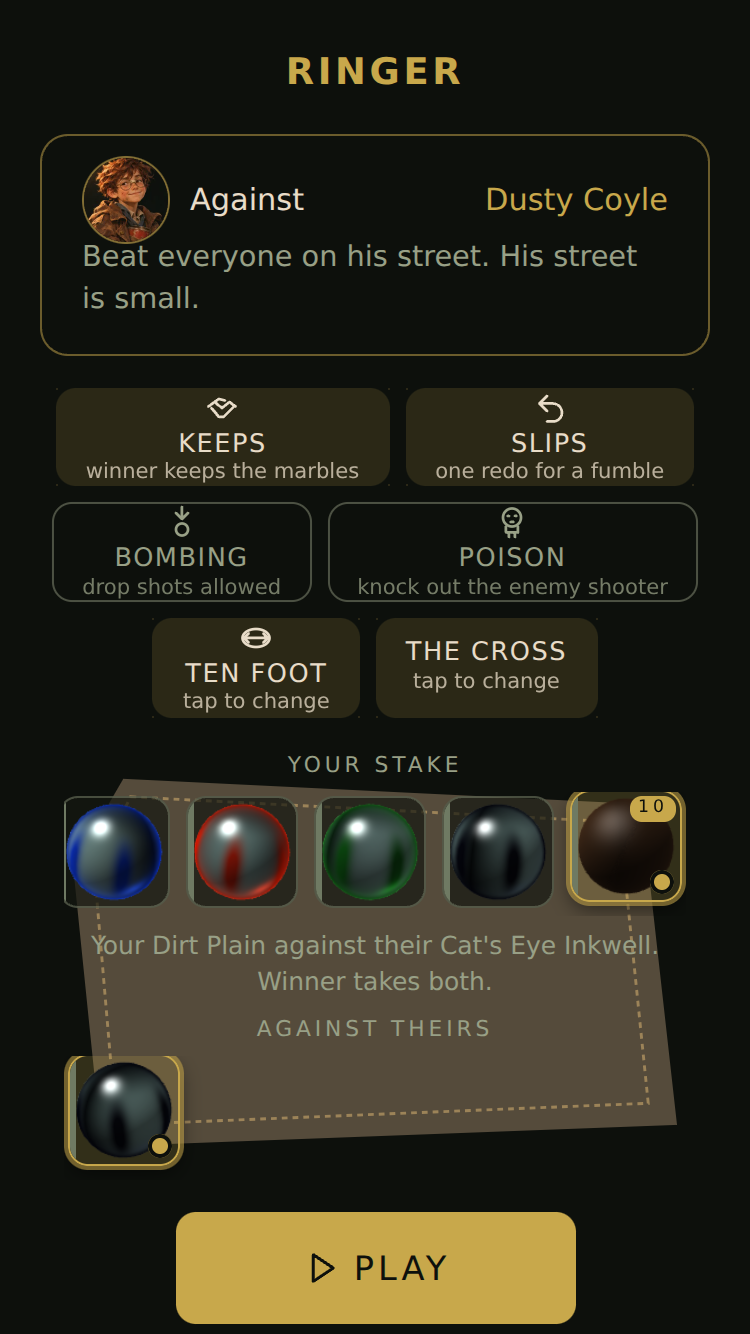
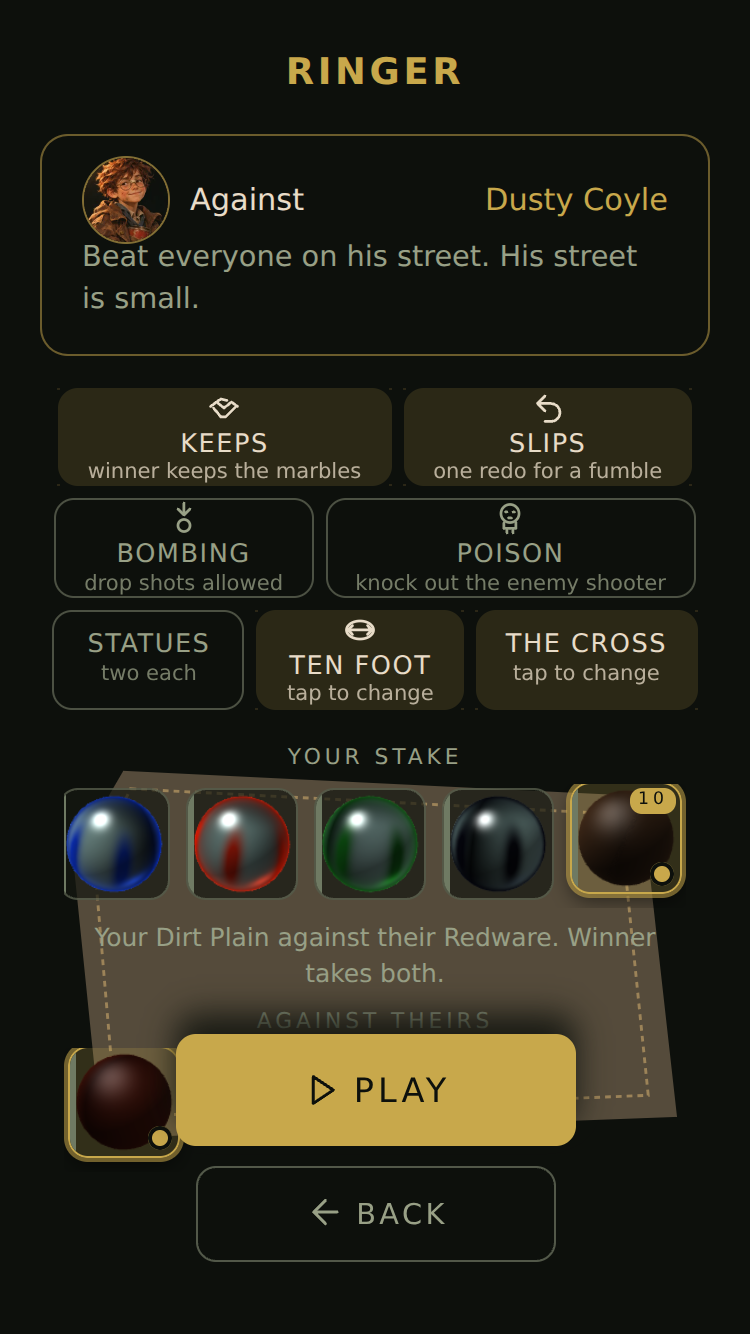
Keepsies m2 step 11: the full check's one red fixed (seven house rules outgrew a 667 px setup at seven foot and pushed Play off the screen; the chips are tighter and Play and Back now stick to the foot of the setup's scroll); playthrough green alone, the fast check green [skip ci]
Claude-Session: https://claude.ai/code/session_01Dzsq6YAnDeV2iLzTfA6x3K

diff --git a/satellites/keepsies/index.html b/satellites/keepsies/index.html
@@ -70,6 +70,13 @@ button.quiet{background:transparent;color:var(--muted);border:1px solid rgba(152
 /* a thumb lands on the BUTTON, never on its words or its drawing (the render gate asks elementFromPoint) */
 button .lbl,button .ic,button .hrIc{pointer-events:none}
 .chip .hrIc .ic{width:18px;height:18px;margin:0 0 2px}
+/* seven house rule chips in three rows at every ring size (THIRTEEN FOOT is the widest word): Play stays on a
+   375 by 667 screen, which the render gate and the playthrough both press */
+.chip{padding:0 8px;min-width:80px;letter-spacing:.03em}
+/* ⛔ PLAY AND BACK ARE ALWAYS ON THE SCREEN. Seven house rules and two stake strips outgrow a 667 px phone at
+   some ring sizes, so the setup scrolls and its two buttons stick to the foot of the scroll, Play over Back */
+#setupGo{position:sticky;bottom:calc(70px + var(--sb));z-index:3;box-shadow:0 -10px 16px rgba(13,16,12,.85)}
+#setupBack{position:sticky;bottom:calc(12px + var(--sb));z-index:3;background:rgba(13,16,12,.96)}
 /* the plates are nine slices of her SVG: the corners keep their radius, the edges stretch */
 .chip{border-style:solid;border-width:1px;border-color:transparent;background:transparent;
   border-image:var(--hr-off) 24 fill / 10px stretch}
